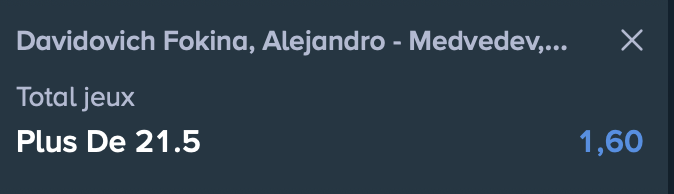
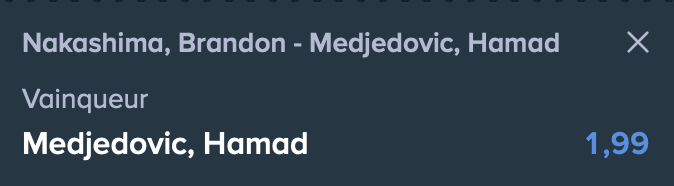
ok

diff --git a/SCRIPTS TEMPETE/tempeteBetting.py b/SCRIPTS TEMPETE/tempeteBetting.py
@@ -94,33 +94,32 @@ def send_telegram(chat_id, message, retry_count=3):
 # Paramètres de configuration
 BASE_URL = "https://tempetebetting.com/wp-content/uploads/{year}/{month:02d}/"
 BASE_URL2 = "https://adrbetting.fr/wp-content/uploads/{year}/{month:02d}/"
-DB_PATH = "images.db"
+
+# Chemin absolu vers la base de données dans le dossier du script
+SCRIPT_DIR = os.path.dirname(os.path.abspath(__file__))
+DB_PATH = os.path.join(SCRIPT_DIR, "images.db")
+
+print(f"📁 Chemin de la base de données : {DB_PATH}")
+
 TELEGRAM_BOT_TOKEN = "YOUR_TELEGRAM_BOT_TOKEN"
 TELEGRAM_CHAT_ID = "YOUR_CHAT_ID"
 
 
 def create_database():
+    """Crée la base de données SQLite pour stocker les URLs des images"""
+    print(f"🔧 Création/vérification de la base : {DB_PATH}")
     conn = sqlite3.connect(DB_PATH)
     cursor = conn.cursor()
     cursor.execute('''
-                   CREATE TABLE IF NOT EXISTS images
-                   (
-                       id
-                       INTEGER
-                       PRIMARY
-                       KEY
-                       AUTOINCREMENT,
-                       image_url
-                       TEXT
-                       UNIQUE,
-                       added_at
-                       DATETIME
-                       DEFAULT
-                       CURRENT_TIMESTAMP
-                   )
-                   ''')
+        CREATE TABLE IF NOT EXISTS images (
+            id INTEGER PRIMARY KEY AUTOINCREMENT,
+            image_url TEXT UNIQUE,
+            added_at DATETIME DEFAULT CURRENT_TIMESTAMP
+        )
+    ''')
     conn.commit()
     conn.close()
+    print(f"✅ Base de données prête")
 
 
 def get_image_links(url):
